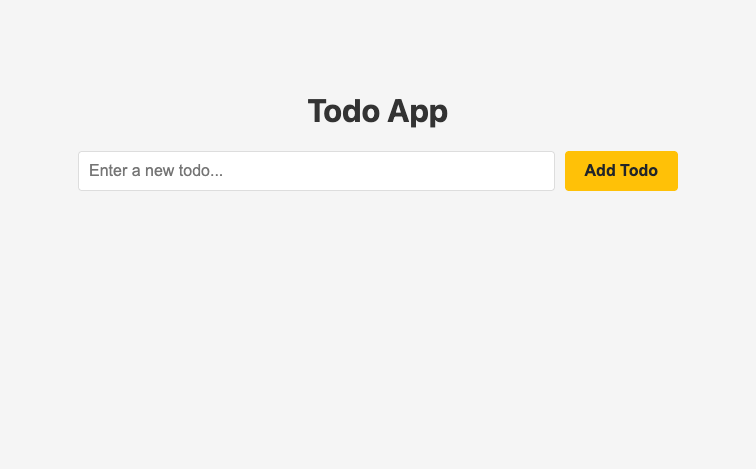
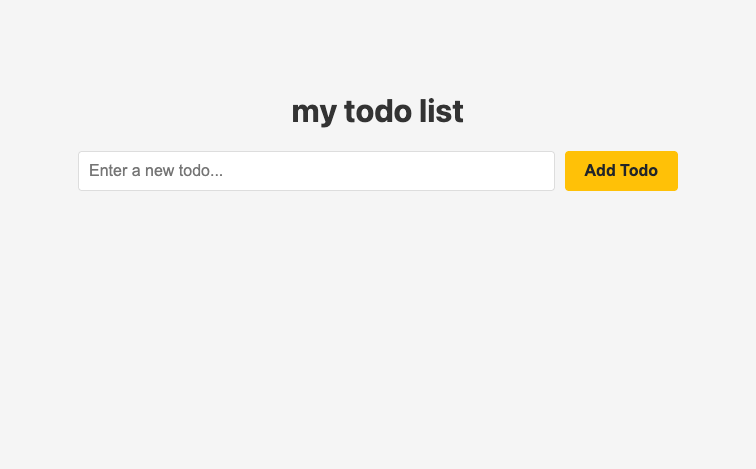
#10: Change page title to my todo list (#11)
* Change page title to "my todo list"

Update the HTML <title> tag from "Todo App" to "my todo list"
as requested in issue #10.

* Also update h1 heading to "my todo list"

Per reviewer feedback, update the visible heading text
in addition to the browser tab title.

---------

Changed region(s): [[0.3651, 0.209, 0.6085, 0.2687]]

diff --git a/src/main.rs b/src/main.rs
@@ -93,7 +93,7 @@ async fn index_html() -> HttpResponse {
 <head>
     <meta charset="UTF-8">
     <meta name="viewport" content="width=device-width, initial-scale=1.0">
-    <title>Todo App</title>
+    <title>my todo list</title>
     <style>
         body {
             font-family: -apple-system, BlinkMacSystemFont, 'Segoe UI', Roboto, sans-serif;
@@ -169,7 +169,7 @@ async fn index_html() -> HttpResponse {
     </style>
 </head>
 <body>
-    <h1>Todo App</h1>
+    <h1>my todo list</h1>
     <div class="add-form">
         <input type="text" id="todoInput" placeholder="Enter a new todo...">
         <button onclick="addTodo()">Add Todo</button>
